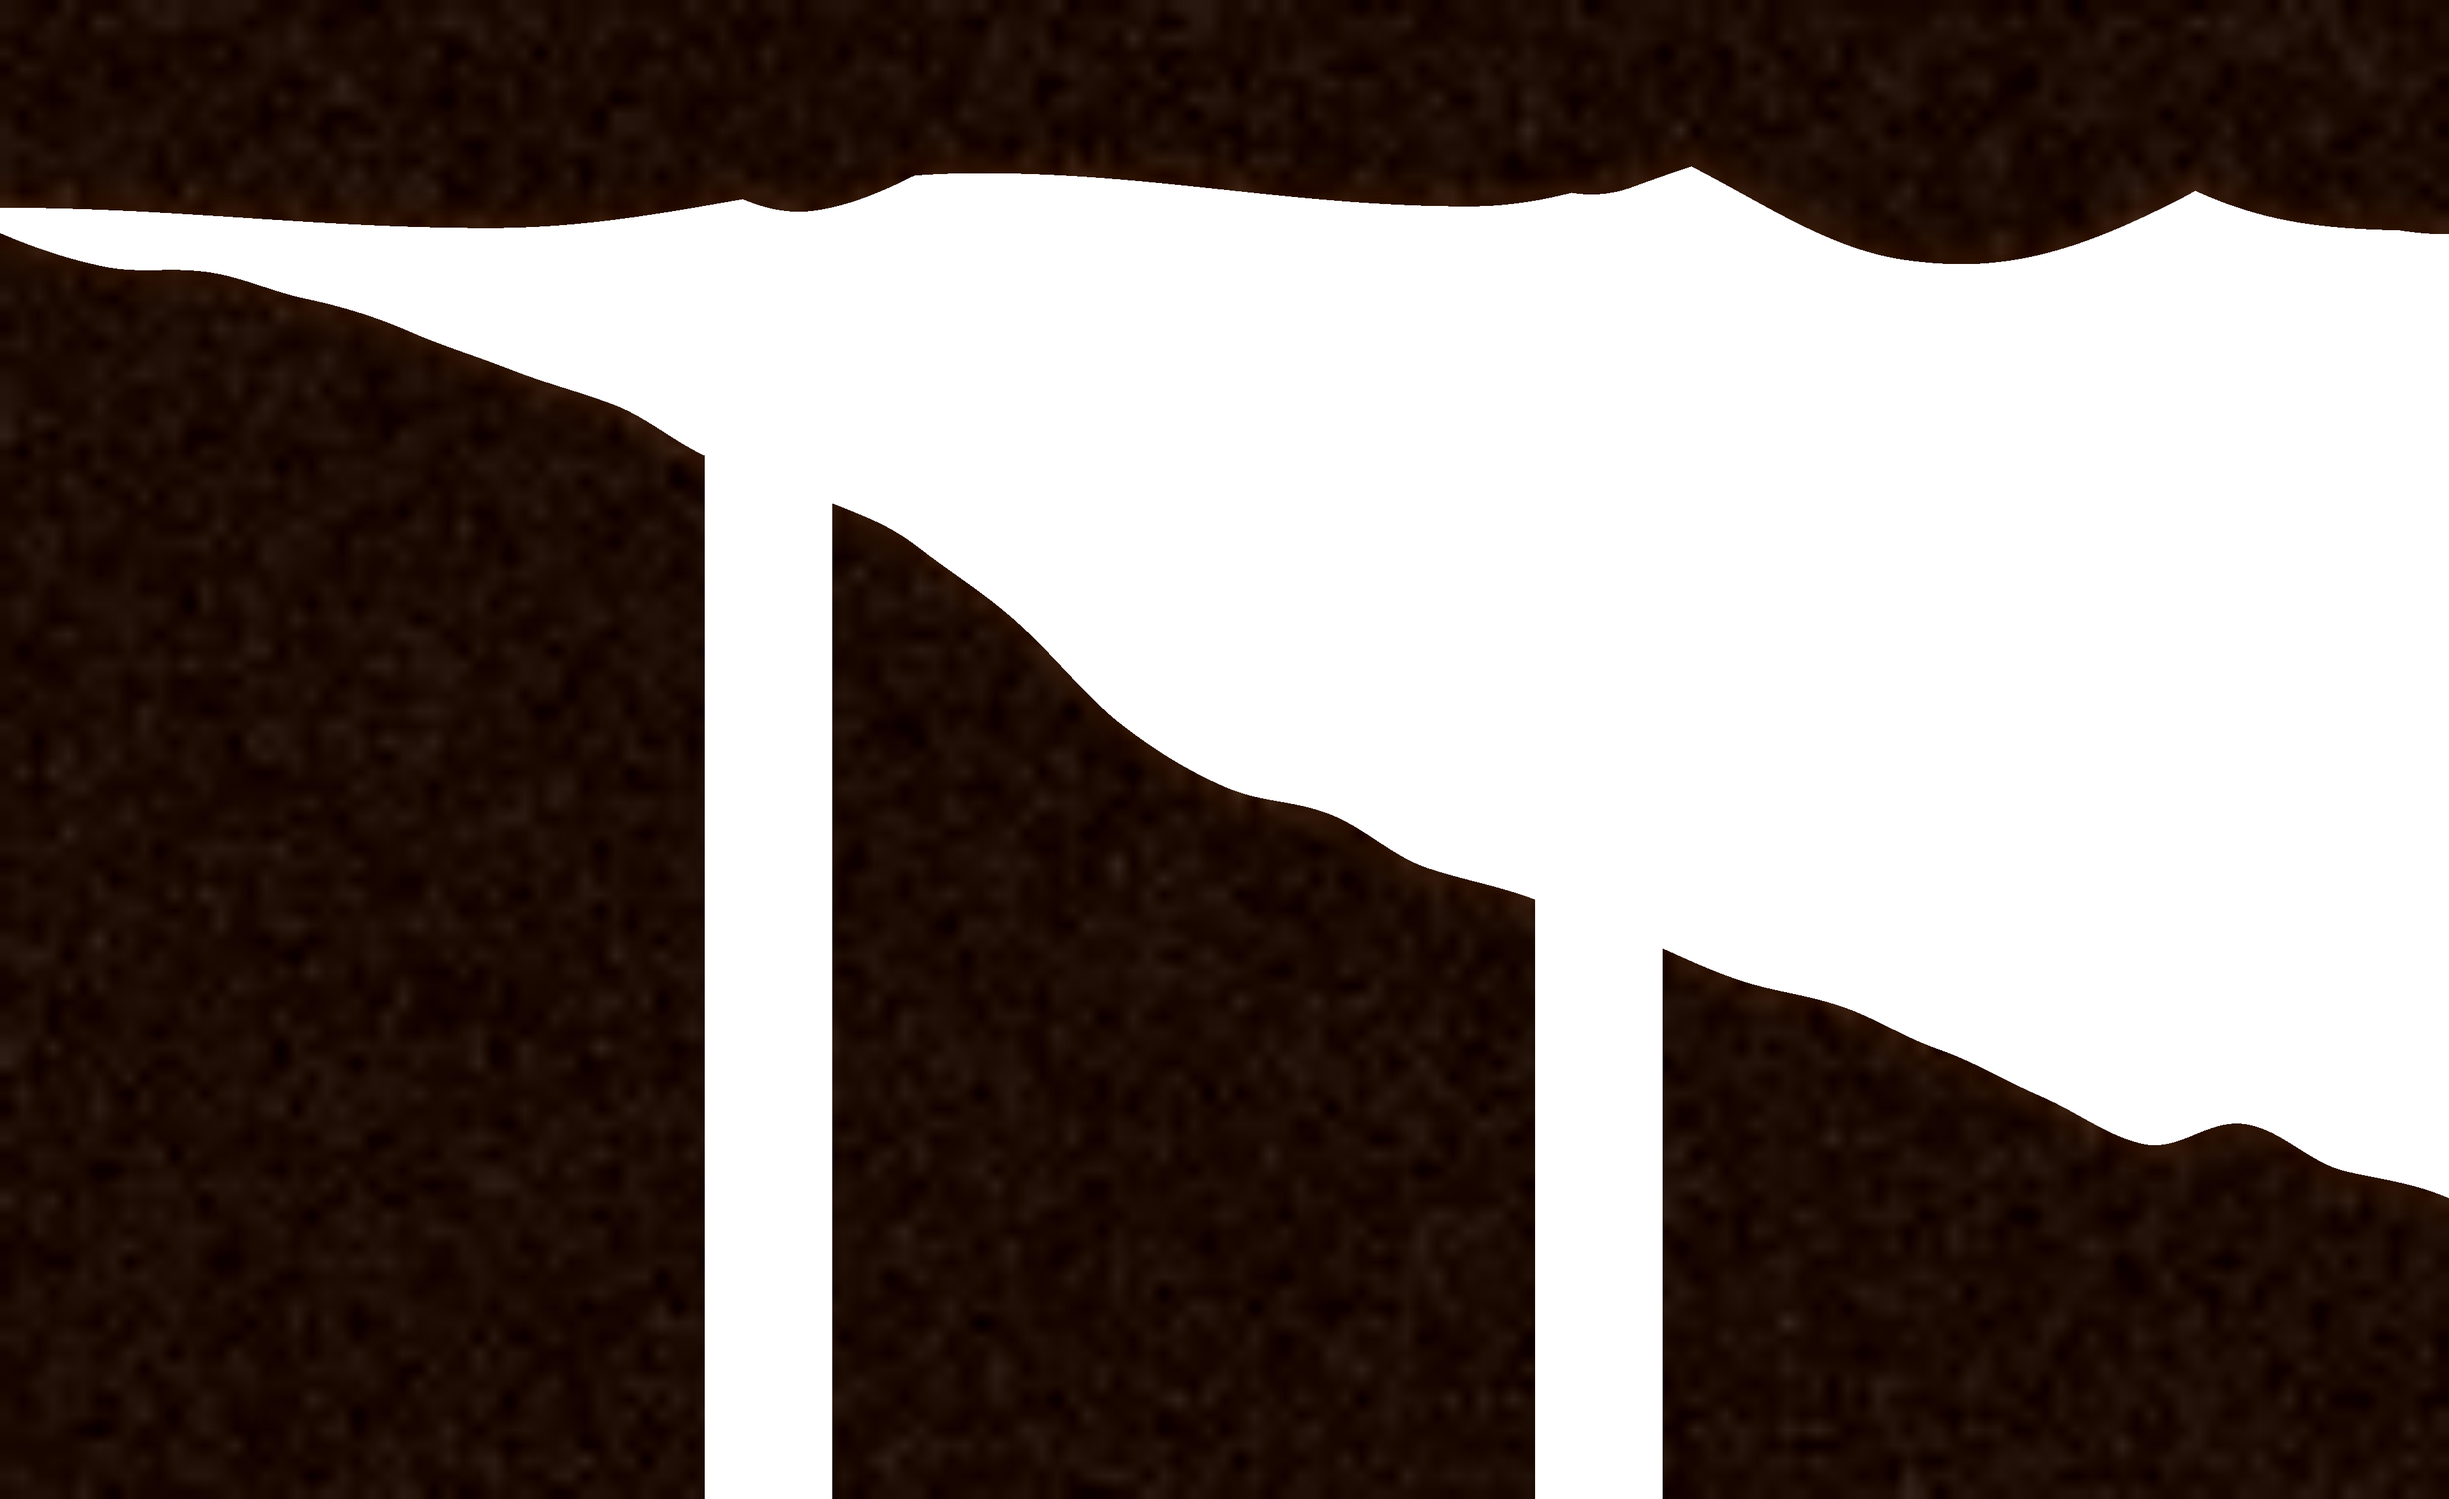
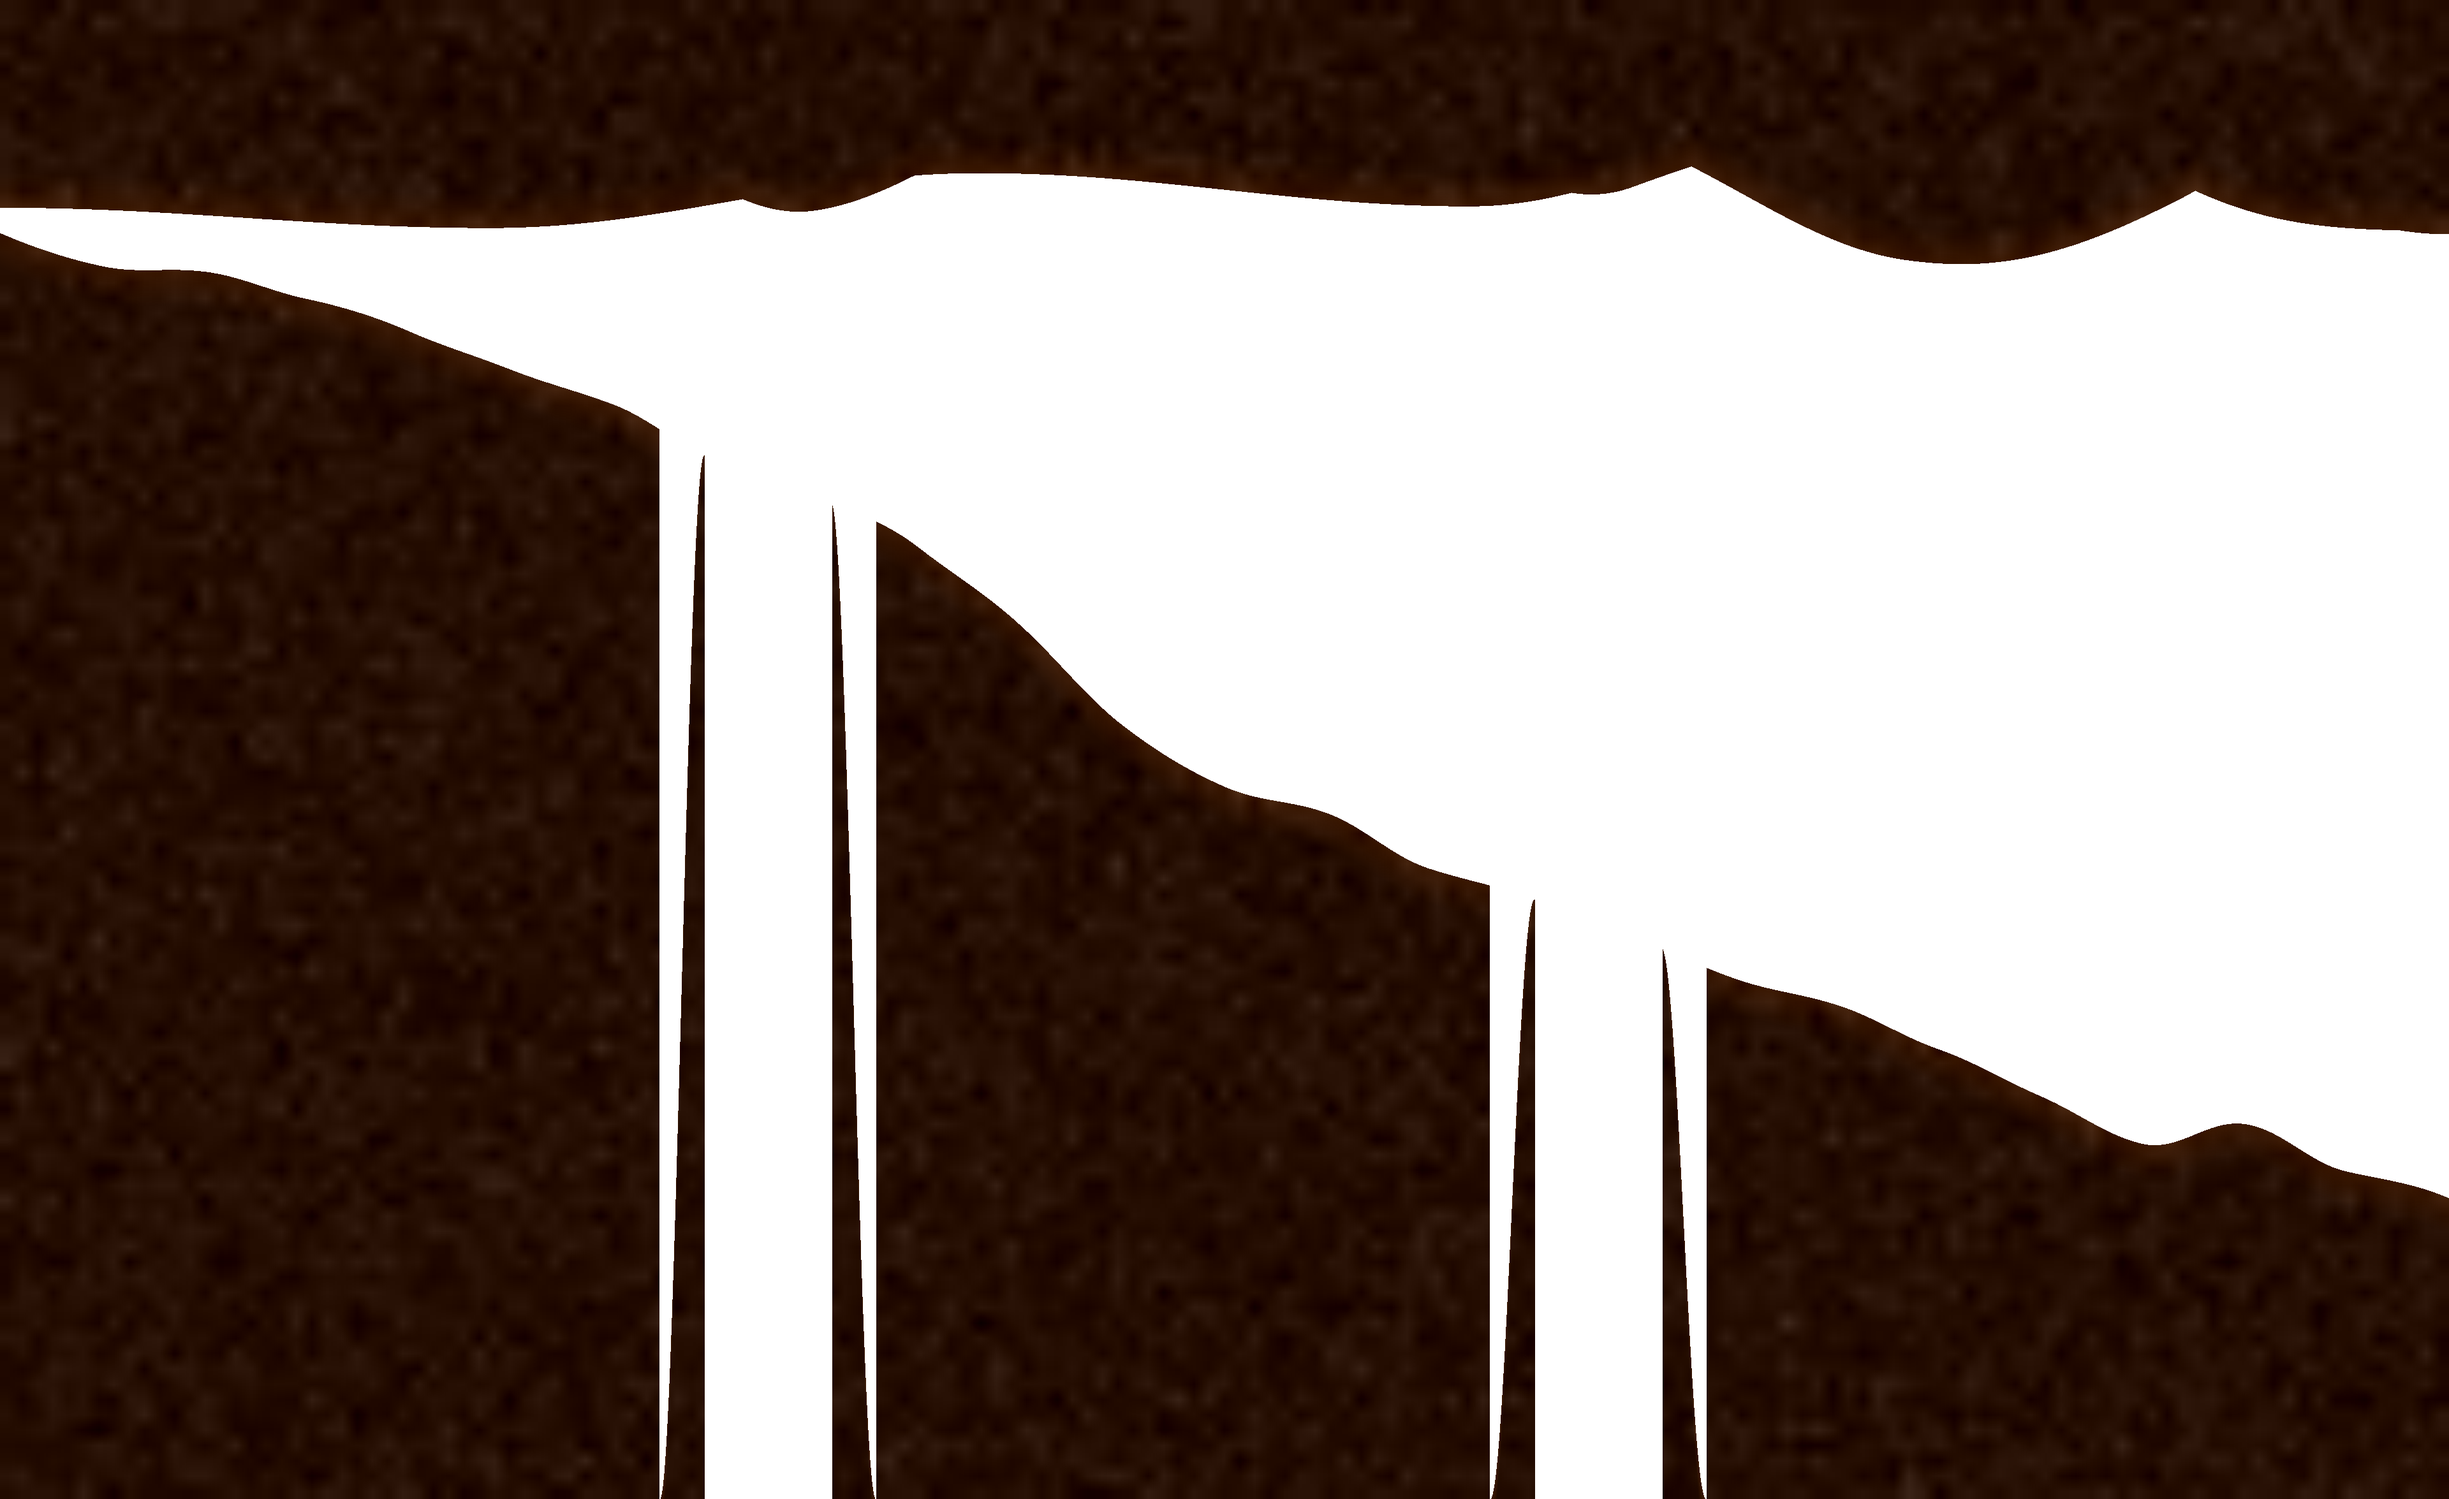
Bane 5/6: avrund luftlommer, mykere morke, tak vekk fra markens spawn
Tre presiseringer etter forrige runde:

- Luftlommene i hver flis hadde rette, loddrette kanter (sa ut som
  firkantede soyler). Ny apply_gap_taper() spisser bakken ut mot
  nesten ingenting over 70px pa hver side av hver luftlomme i
  stedet, samme prinsipp som kant-avrundingen fra forrige runde.
  Plasseringen var allerede riktig, kun inni hver flis, aldri ved
  flis-skjotene.

- Morke-steget (0.85 per bane) var alt for merkbart. Satt ned til
  0.98 per bane, matcher "spilleren skal nesten ikke merke at det
  blir morkere og morkere".

- Markens startpunkt (verdenskoordinat 0,0) treffer lokal rad ~25 i
  flis 1, rett der det hengende taket ellers startet, sa marken sto
  visuelt inni fjellet ved spawn. Ny apply_ceiling_spawn_clearance()
  trekker taket vekk de forste 500 pikslene av flis 1, jevn overgang
  til normal dybde etterpa. Klaring nyregnet: 125 enheter for bane 5,
  157 for bane 6, begge trygt positive.

Avstanden fra markens startpunkt til bakken urort av alt dette
(423 for bane 5, 610 for bane 6).

Claude-Session: https://claude.ai/code/session_01KM3gBnL2KBiiwgB3FdLDrQ

diff --git a/TIL-ORJAN.md b/TIL-ORJAN.md
@@ -1713,3 +1713,45 @@ vanligvis litt bedre).
 
 Luac-sjekket, kjørte fullt syntakssøk over repoet. Ikke testet i
 faktisk nettleser ennå.
+
+## 2026-09-15, bane 5/6: tre presiseringer fra Mathias etter forrige runde
+
+Tre konkrete ting etter å ha sett resultatet av hule-gangene og
+mørke-progresjonen:
+
+1. **"Det skal ikke være åpenrom mellom flisene. Bare mellomrom inni
+   flisene. Rund av kantene på åpenrommene i flisene."** Selve
+   plasseringen var allerede riktig (`gap_centers()` holder seg godt
+   innenfor én flis sine grenser, aldri ved skjøtene), men luftlommene
+   var rektangulære utstansinger med rette, loddrette kanter, så det
+   så ut som firkantede søyler i stedet for en naturlig hule-åpning.
+   Lagt til `apply_gap_taper()`, samme prinsipp som kant-avrundingen
+   fra i sted, bare brukt på begge sider av hver luftlomme: bakken
+   spisser seg ut til nesten ingenting over `GAP_TAPER` (70) piksler
+   før selve hullet, i stedet for å stoppe brått.
+2. **"Ikke gjør det for mørkt heller. Det skal gå veldig sakte
+   gradvis mørkere per bane. Spilleren skal nesten ikke merke at det
+   blir mørkere og mørkere."** Forrige mørke-steg (faktor 0,85 per
+   bane) var for merkbart. Satt ned til 0,98 per bane; bane 5 blir da
+   knapt merkbart mørkere enn bane 3/4-baseline (98 %), bane 6 enda
+   litt til (96 %), i stedet for de forrige 85 %/72 %.
+3. **"Pass på at posisjonen til marken ikke starter inne i taket."**
+   Sjekket tallmessig og fant at dette faktisk var en reell feil:
+   marken sitt startpunkt (verdenskoordinat 0,0) treffer lokal rad
+   ~25,5 i flis 1, altså helt øverst i bildet, nøyaktig der det
+   hengende taket begynner (fra rad 0 og minst ~235 nedover). Taket
+   dekket dermed markens startpunkt fullstendig. Lagt til
+   `apply_ceiling_spawn_clearance()`: for flis 1 spesifikt trekkes
+   taket helt vekk (nær null) de første 500 pikslene, med jevn
+   overgang til normal tak-dybde etterpå, godt forbi markens faktiske
+   startkolonne (~170). Tematisk stemmer det også fint: helt
+   innerst/øverst ved inngangen er det åpent, selve hule-taket starter
+   litt lenger inn. Regnet ut klaringen etterpå: bane 5 har nå 125
+   verdensenheter luft mellom tak og startpunkt, bane 6 157, begge
+   trygt positive.
+
+Ingen av de tre endringene rørte avstanden fra markens startpunkt til
+bakken (fortsatt 423 for bane 5, 610 for bane 6, sjekket på nytt).
+
+Luac-sjekket, kjørte fullt syntakssøk over repoet. Ikke testet i
+faktisk nettleser ennå.

diff --git a/KODEBASE.md b/KODEBASE.md
@@ -265,13 +265,23 @@ filene gjør.
 
 **Fargeprogresjon (mørkere jo lenger ut i spillet):** designprinsipp
 fra Mathias, hver bane skal være mørkere enn forrige, som å dra dypere
-ned i en hule. Målt presist fra bane 3/4 sin faktiske kunst (ikke bane
-1, som er opplæringsbanen og en outlier): dyp bakkefarge ~(38,14,1),
-kantfarge ~(63,27,4). Bane 5 sin farge er dette ett "mørke-steg"
-(faktor 0,85 på rød/grønn kanal) mørkere, bane 6 to steg (0,85²).
-Blåkanalen holdes på bunnivå (1) i stedet for å skaleres videre ned,
-den store overgangen skjedde allerede mellom bane 1 og 2 i den ekte
-kunsten. Se `TIL-ORJAN.md` for målingene.
+ned i en hule, men VELDIG gradvis, spilleren skal knapt merke det.
+Målt presist fra bane 3/4 sin faktiske kunst (ikke bane 1, som er
+opplæringsbanen og en outlier): dyp bakkefarge ~(38,14,1), kantfarge
+~(63,27,4). Bane 5 sin farge er dette ett "mørke-steg" (faktor 0,98 på
+rød/grønn kanal, satt ned fra en først altfor merkbar 0,85) mørkere,
+bane 6 to steg (0,98²). Blåkanalen holdes på bunnivå (1) i stedet for
+å skaleres videre ned, den store overgangen skjedde allerede mellom
+bane 1 og 2 i den ekte kunsten. Se `TIL-ORJAN.md` for målingene.
+
+**Luftlommene og taket, presisert:** luftlommene skal kun ligge inni
+hver flis (aldri ved flis-skjøtene, det var allerede riktig), og deres
+kanter skal være avrundet, ikke rette utstansinger (`apply_gap_taper()`
+i generator-scriptet). Det hengende taket måtte i tillegg trekkes vekk
+helt i starten av flis 1, markens faktiske startpunkt (verdenskoordinat
+0,0) treffer lokal rad ~25 i bildet, rett der taket ellers ville
+startet, så uten dette sto marken visuelt inni fjellet ved spawn
+(`apply_ceiling_spawn_clearance()`). Se `TIL-ORJAN.md` for tallene.
 
 ### Banevalg-systemet
 - `ogt_levelmanager.lua` / `ogt_lmdata.lua` — **i bruk**, tredjeparts-aktig
